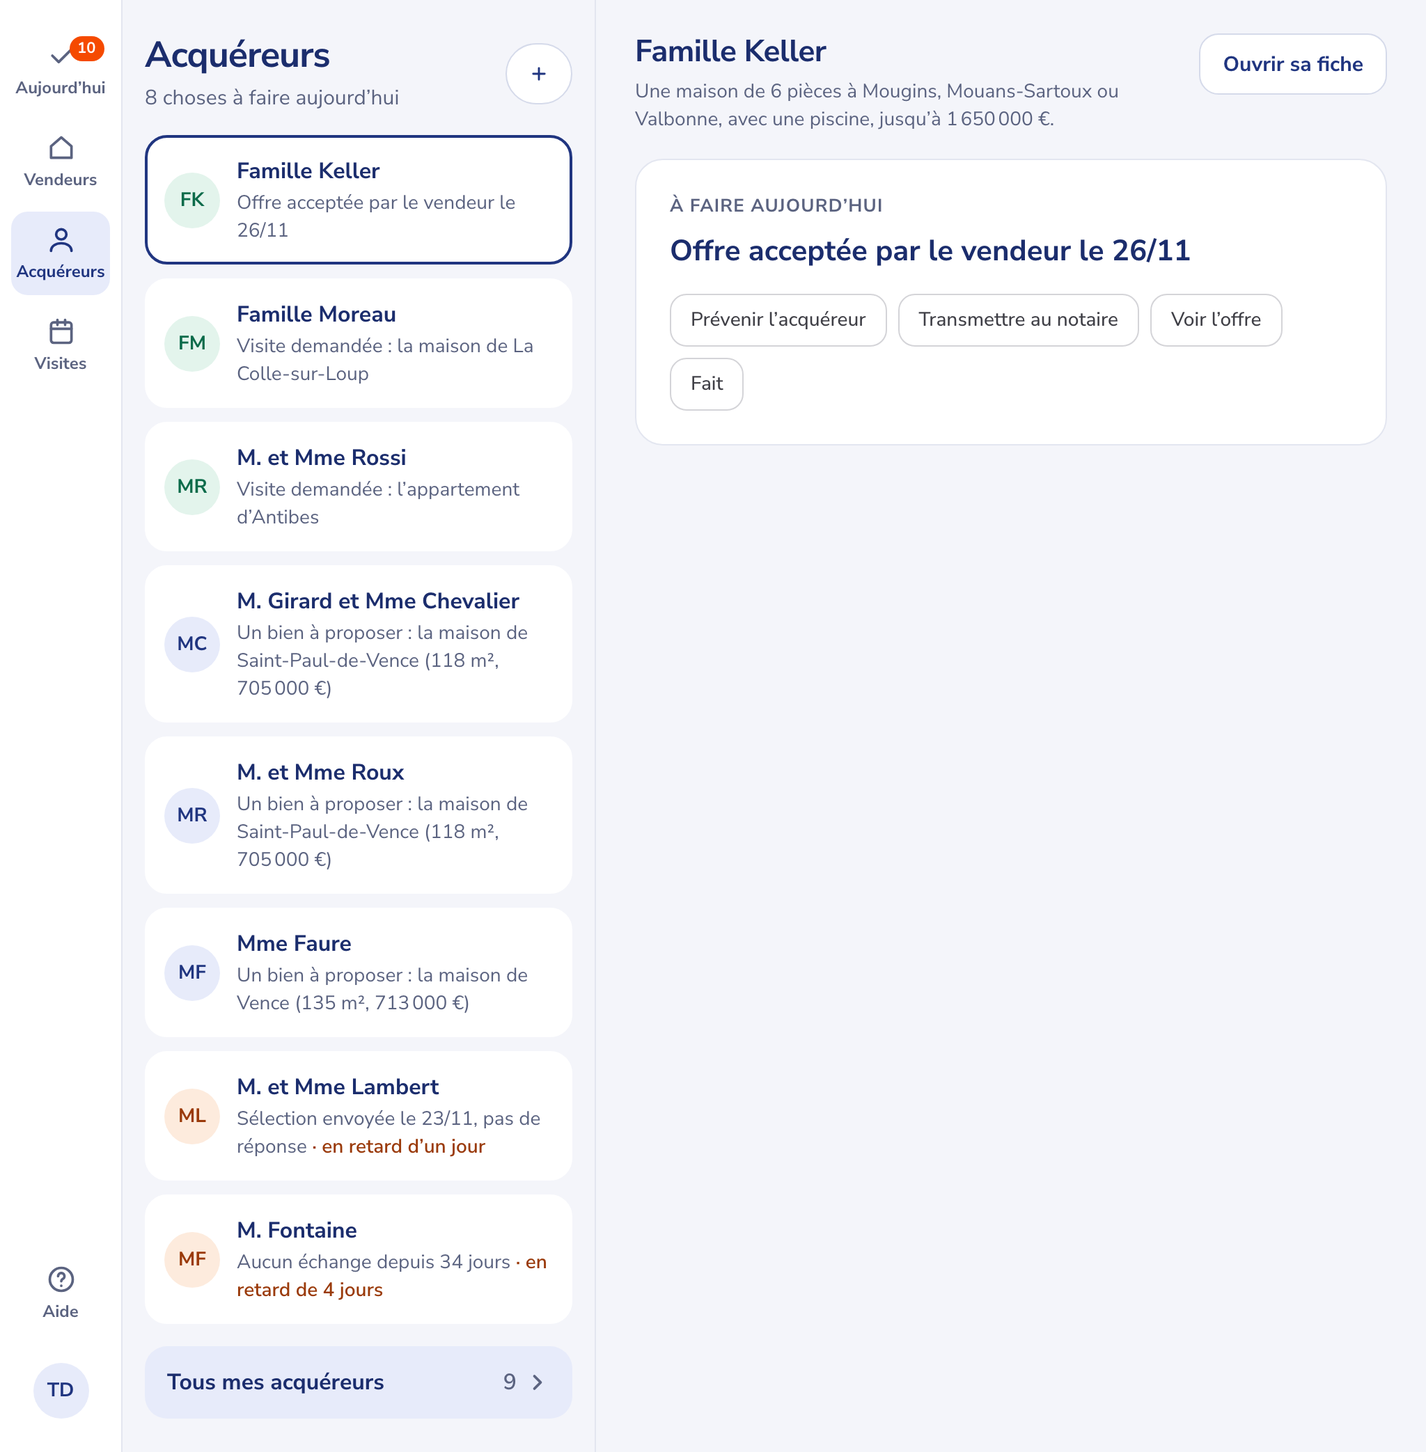
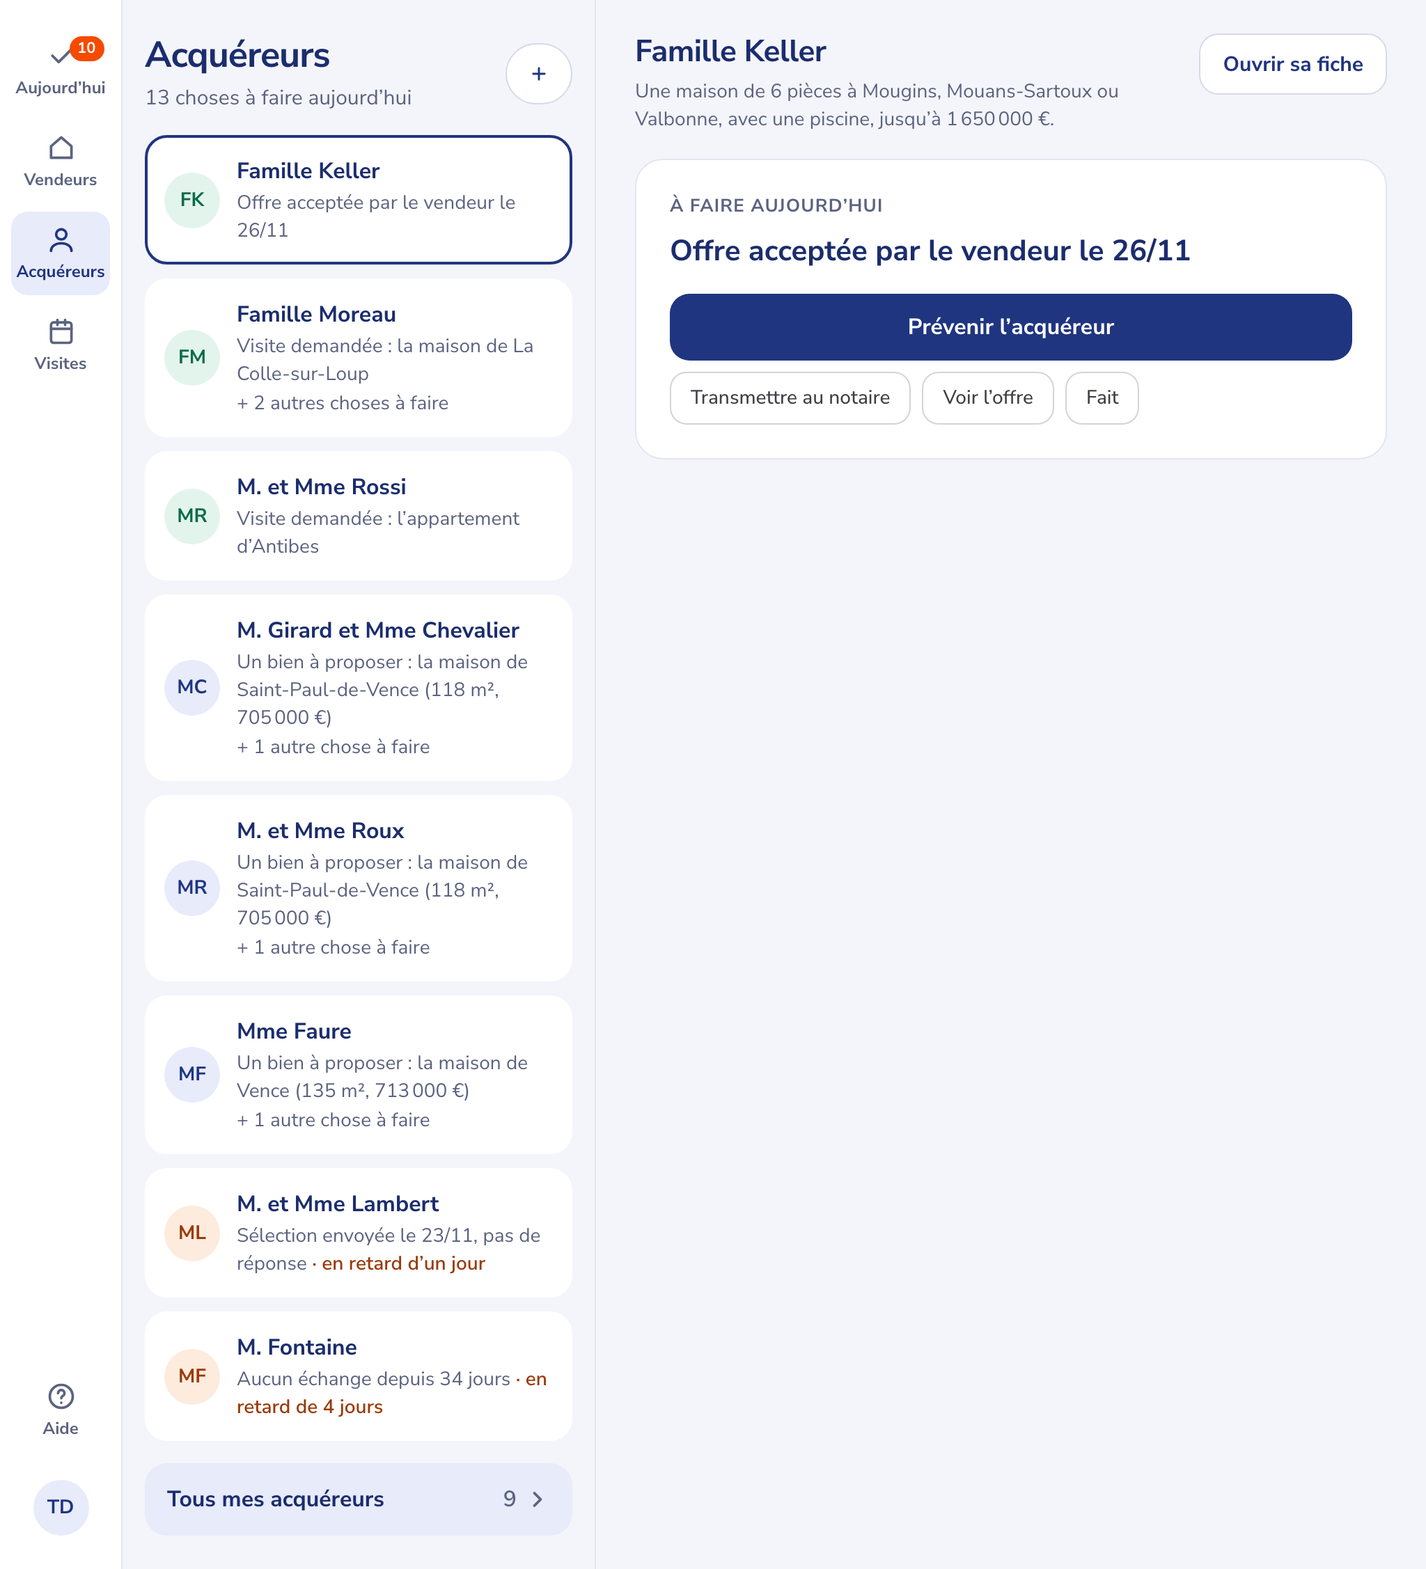
Refonte, lot B — après la relecture : sur une tablette en portrait, « Ouvrir sa fiche » passe sous le nom ; les captures du code relu, ce qui change, ce qui est tranché, les specs, les leçons

diff --git a/src/app/(protected)/acquereurs/(liste)/buyers-today-view.tsx b/src/app/(protected)/acquereurs/(liste)/buyers-today-view.tsx
@@ -250,7 +250,9 @@ function BuyerTodayDetail({
 }) {
   return (
     <>
-      <div className="flex items-start justify-between gap-6">
+      {/* Sous 1024 px (une tablette en portrait), le détail est étroit : « Ouvrir sa fiche » passe
+          sous son nom et sa recherche, qui gardent toute la largeur. */}
+      <div className="flex flex-col gap-3 lg:flex-row lg:items-start lg:justify-between lg:gap-6">
         <div className="flex min-w-0 flex-col gap-1">
           <h2
             className="text-[22px] leading-tight font-extrabold tracking-[-0.3px] text-brand-darker xl:text-[26px] xl:tracking-[-0.4px] stage:text-white"
@@ -264,7 +266,7 @@ function BuyerTodayDetail({
         </div>
         <Link
           href={`/acquereurs/${item.buyerId}`}
-          className={`${socleBtnQuiet} flex-none`}
+          className={`${socleBtnQuiet} flex-none self-start`}
           data-testid="buyers-today-open"
         >
           Ouvrir sa fiche

diff --git a/tests/e2e/acquereurs-a-faire.spec.ts b/tests/e2e/acquereurs-a-faire.spec.ts
@@ -211,6 +211,12 @@ test('Acquéreurs : à faire aujourd’hui, une carte par personne, aux trois ta
       expect(detail.x, size).toBeGreaterThanOrEqual(list.x + list.width);
       expect(await filledShown(page), size).toEqual(['Prévenir l’acquéreur']);
       await expectNoHorizontalScroll(page, `Acquéreurs, à faire aujourd’hui (${size})`);
+      // En portrait, le détail est étroit : « Ouvrir sa fiche » passe sous le nom et la recherche,
+      // qui gardent la largeur ; en paysage, il reste à leur droite.
+      const name = (await page.getByTestId('buyers-today-name').boundingBox())!;
+      const open = (await page.getByTestId('buyers-today-open').boundingBox())!;
+      if (viewport.width < 1024) expect(open.y, size).toBeGreaterThan(name.y + name.height);
+      else expect(open.x, size).toBeGreaterThan(name.x + name.width);
     }
   });
 

diff --git a/missions/LANCEMENT.md b/missions/LANCEMENT.md
@@ -135,7 +135,7 @@ Les lots, un à la fois (durée prévue par le chef le 25/11, hors attente de Je
 | Lot | Contenu                                                                                           | Maquettes       | Durée prévue | État    |
 | --- | ------------------------------------------------------------------------------------------------- | --------------- | ------------ | ------- |
 | A   | Le socle : le menu aux trois tailles, la carte « à faire », les boutons plein et contour, les pastilles, les tuiles de chiffres | toutes          | 4 h          | sur l'essai depuis le 26/11 à 0 h 10, complété à 0 h 30 (3 h 05) : attend le « oui » |
-| B   | Acquéreurs : « à faire aujourd'hui » ; la fiche acquéreur repliée alignée sur le socle             | REFONTE-1, 4, 5, 6 | 2 h 30    | sur l'essai depuis le 26/11 à 1 h 20 (1 h 40) : attend le « oui » |
+| B   | Acquéreurs : « à faire aujourd'hui » ; la fiche acquéreur repliée alignée sur le socle             | REFONTE-1, 4, 5, 6 | 2 h 30    | sur l'essai depuis le 26/11 à 1 h 20, relu et corrigé à 2 h 55 (3 h 15) : attend le « oui » |
 | C   | Un bien à la fois                                                                                  | REFONTE-3, 5, 6 | 2 h 30       | à faire |
 | D   | Nouvel acquéreur par une phrase                                                                    | REFONTE-2       | 2 h          | à faire |
 | E   | Vendeurs : « à faire aujourd'hui », et le dossier avec sa prochaine étape et ses cinq étapes       | REFONTE-7, 8    | 3 h          | à faire |
@@ -275,30 +275,48 @@ sur ordinateur et tablette, toucher une autre personne dans la liste), puis « O
 fiche alignée sur le socle) et « Tous mes acquéreurs » (la liste d'avant). Les captures :
 `missions/maquettes/REFONTE-B-telephone.png`, `-tablette.png`, `-ordinateur.png` (l'essai tel
 qu'il est), les mêmes en `…-charte-start-academy.png` (la simulation aux couleurs de l'agence de
-Jean-Guy), et `REFONTE-B-fiche-telephone.png`, `-fiche-ordinateur.png`.
+Jean-Guy), `REFONTE-B-plusieurs-taches-ordinateur.png` (une personne qui a trois choses à faire),
+et `REFONTE-B-fiche-telephone.png`, `-fiche-ordinateur.png`. Les captures sont celles du code
+relu, sur une démo remise à zéro.
 
 Ce qui change, en comportement :
 
 - **Acquéreurs s'ouvre sur « à faire aujourd'hui »** : une carte par personne, avec ce qu'il y a
-  à faire et son bouton ; « N choses à faire aujourd'hui », une par personne. Ce sont les tâches
-  de la page « Aujourd'hui » (« Mes tâches » : mêmes règles, mêmes gestes), rangées par
-  acquéreur : la plus utile de chacun fait sa carte, ses autres tâches du jour se lisent dans son
-  détail. Aucune règle nouvelle. La page « Aujourd'hui » ne change pas.
+  à faire et son bouton. Ce sont les tâches de la page « Aujourd'hui » (« Mes tâches » : mêmes
+  règles, mêmes gestes), rangées par acquéreur. Aucune règle nouvelle. La page « Aujourd'hui » ne
+  change pas.
+- **Une personne qui a plusieurs choses à faire les a toutes** : la plus utile fait sa carte ; les
+  autres suivent sous « Aussi aujourd'hui », chacune avec son geste, en contour — dans sa carte
+  sur téléphone, dans son détail sur tablette et ordinateur ; dans la liste, sa ligne dit « + 2
+  autres choses à faire » (et « dont 1 en retard »). « 13 choses à faire aujourd'hui » compte
+  toutes les tâches, pas les personnes.
 - **Sur téléphone**, une colonne de cartes, le bouton sous chaque personne ; le nom mène à sa
   fiche. **Sur tablette et ordinateur**, la liste à gauche (340 et 420 px) et, à droite, la
   personne choisie : son nom, sa recherche en une phrase, ce qu'il y a à faire et son geste,
   « Ouvrir sa fiche » — sans changer de page.
-- **Un seul bouton plein** : celui de la première carte (sur téléphone), celui du détail
-  (ailleurs). La réponse du vendeur à une offre garde ses quatre gestes en contour, comme sur
-  « Aujourd'hui » : le plein va alors à la carte suivante.
+- **Un seul bouton plein**, geste ouvert compris : celui de la première carte (sur téléphone),
+  celui de la personne choisie (ailleurs). Pour la réponse du vendeur à une offre, « Prévenir
+  l'acquéreur » est le bouton de la carte, ses trois autres gestes dessous. Dans une carte qui ne
+  mène pas l'écran, le bouton qui conclut un geste ouvert (« J'ai relancé », « Envoyé ») reste en
+  contour.
+- **Choisir une personne** (tablette, ordinateur) refait son détail à neuf : un geste ouvert pour
+  l'une ne suit jamais la suivante. Le toucher se voit tout de suite (le contour de la ligne), le
+  temps que la page réponde. Un geste ouvert (le message d'une relance) prend la largeur de la
+  carte. Sur une tablette en portrait, « Ouvrir sa fiche » passe sous le nom.
 - **La liste entière** des fiches (ses vues, ses filtres, sa recherche, « Ce mois-ci ») est
   derrière « Tous mes acquéreurs · N » ; elle porte « ← À faire aujourd'hui ». Un lien d'avant
-  (`?vue=agence`, `?q=`, `?etat=`, une fiche archivée) y mène toujours.
+  (`?vue=agence`, `?q=`, `?etat=`, une fiche archivée) y mène toujours, et la liste garde son
+  adresse : un filtre retiré ou une recherche vidée, puis la page actualisée, c'est toujours la
+  liste. La tuile « N acquéreurs prêts » d'« Aujourd'hui » y mène, comme avant.
 - **La fiche** : « Prochaine étape » devient la carte du socle (blanche, son grand bouton plein,
   le second geste en lien) ; « Son suivi » montre ses trois chiffres en tuiles — visités, envoyés
-  en attente, refusés —, qui s'ouvrent d'un toucher comme les lignes d'avant ; « Visites à
-  organiser », quand il y en a, garde sa ligne entière, dessous. Rien d'autre ne bouge sur la
-  fiche.
+  en attente, refusés —, qui s'ouvrent d'un toucher comme les lignes d'avant : la tuile ouverte
+  prend la largeur, les deux autres restent côte à côte au-dessus ; « Visites à organiser »,
+  quand il y en a, a sa ligne entière sous les trois, dans la page comme à l'écran. Rien d'autre
+  ne bouge sur la fiche.
+- **Le message préparé** d'une relance ou d'une offre passe à la ligne : son lien, trop long,
+  faisait défiler la page de côté sur téléphone (trouvé par la spec, geste ouvert). Cela vaut
+  aussi sur « Aujourd'hui », où le même message s'affiche.
 
 Tranché seul par le chef, à corriger par Jean-Guy s'il le veut :
 
@@ -314,6 +332,18 @@ Tranché seul par le chef, à corriger par Jean-Guy s'il le veut :
   et 6) y vient au lot C.
 - Sur la fiche, le lien de retour garde « ← Acquéreurs », comme toutes les pages ; les titres
   de la fiche ne sont pas refaits.
+- **À trancher par Jean-Guy — les cartes suivent « Mes tâches »**, la règle d'« Aujourd'hui »
+  (M145 B) : une visite demandée sur un mandat, ou un bien à proposer, est la tâche du conseiller
+  du MANDAT. Dans une agence à plusieurs conseillers, celui qui tient le mandat voit donc une
+  carte au nom de l'acquéreur d'un collègue, et le collègue n'a pas de carte pour son propre
+  acquéreur. Par défaut, rien ne change : c'est la règle d'aujourd'hui, et la changer serait une
+  règle nouvelle. L'autre choix : sur Acquéreurs, montrer les tâches de MES acquéreurs, quel que
+  soit le mandat.
+- « Visites à organiser » vient sous les trois chiffres ; dans la fiche repliée d'avant, elle
+  était la deuxième ligne (Lancement 6). L'ordre de la page suit celui de l'écran.
+- Choisir une personne relit ses tâches au serveur : 1,3 s mesurée sur l'essai, dont la base est
+  la plus petite. Le contour de la ligne répond tout de suite ; aller plus vite se décide avec le
+  lot C, qui met « un bien à la fois » dans ce détail (`missions/PLUS_TARD.md`).
 
 Les specs modifiées (un emplacement ; ce qu'elles prouvent ne change pas) :
 
@@ -323,15 +353,36 @@ Les specs modifiées (un emplacement ; ce qu'elles prouvent ne change pas) :
 | `parcours.spec.ts` (1)              | idem                                                                                            |
 | `presentation-directe.spec.ts` (11) | idem                                                                                            |
 | `langue-de-l-acquereur.spec.ts` (1) | idem                                                                                            |
-| `acquereurs-a-faire.spec.ts`        | **nouvelle** : « à faire aujourd'hui » aux trois tailles, la personne choisie sans changer de page, le seul bouton plein, la fiche et ses trois tuiles, « Tous mes acquéreurs » et son retour |
+| `acquereurs-a-faire.spec.ts`        | **nouvelle** : « à faire aujourd'hui » aux trois tailles et sur la tablette en portrait, la personne choisie sans changer de page et son détail neuf, le seul bouton plein (deux gestes ouverts compris), les autres tâches d'une personne, la fiche et ses trois tuiles, « Tous mes acquéreurs », son adresse gardée et son retour |
 
-Tests : barrières vertes (4 415 tests) ; les specs concernées sur l'essai, le 26/11 de 0 h 45 à
-1 h 18 : 24 parcours sur 24, sans aléa.
+Non modifiée, mais elle passe désormais par le nouvel écran : `parcours.spec.ts` — le lien
+« Acquéreurs » du menu et l'ancienne adresse `/biens-ideaux` arrivent sur « à faire aujourd'hui »
+(elle attend toujours `/acquereurs`), et « Nouvel acquéreur » y est le « + » de l'en-tête, trouvé
+par son nom. Ce qu'elle prouve ne change pas.
+
+Le relecteur, une passe : un bloquant, levé — sur tablette et ordinateur, le geste ouvert pour une
+personne (son message préparé, « J'ai relancé ») restait affiché sous le nom de la suivante — ;
+ses cinq « à corriger » faits (deux boutons pleins sur téléphone, la tuile d'« Aujourd'hui », la
+liste qui perdait son adresse, les preuves que les tâches portent leurs acquéreurs, une tâche due
+cachée derrière la première) ; ses remarques prises ou notées dans `missions/PLUS_TARD.md`.
+
+Tests : barrières vertes (4 439 tests). Sur l'essai, le 26/11 : d'abord 24 parcours sur 24 (0 h 45
+à 1 h 18) ; puis, après la relecture (2 h 05 à 2 h 55), la spec du lot et les six autres
+concernées, 14 parcours sur 14 (`acquereurs-a-faire`, `suivi-de-l-acquereur`, `fiche-complete`,
+`hors-mandat`, `presentation-directe`, `demo`, `parcours`). La spec du lot a trouvé un défaut
+d'écran (le lien du message qui faisait défiler le téléphone de côté), corrigé, et une attente
+fausse de la spec elle-même (écrite sur une démo déjà utilisée). Hors du lot : « Le Live sans
+trou », rouge deux fois de suite sur la 4G rapide (même étape : après « Valider », l'écran suivant
+n'arrivait pas en 60 s), vert au troisième passage sur les deux réseaux ; les lots A et B ne
+touchent pas le Live (aucun fichier), le journal d'erreurs de l'essai est vide.
 
 À écrire dans `docs/DECISIONS.md` à la mise en production du lot : « à faire aujourd'hui » en tête
 d'Acquéreurs, une carte par personne ; la liste derrière « Tous mes acquéreurs » (précise M117,
 M146 B) ; le détail à droite sur tablette et ordinateur ; la carte « Prochaine étape » et les
-trois tuiles de la fiche (précise la Mission 10 bis et le Lancement 10, « bloc plein »).
+trois tuiles de la fiche (précise la Mission 10 bis et le Lancement 10, « bloc plein ») ; une
+personne a toutes ses tâches du jour, la première en carte, les autres sous « Aussi aujourd'hui » ;
+un seul bouton plein, geste ouvert compris ; « Visites à organiser » sous les trois chiffres
+(remplace l'ordre du Lancement 6) ; le message préparé passe à la ligne.
 
 ## Chaque soir
 

diff --git a/docs/APPRENTISSAGES.md b/docs/APPRENTISSAGES.md
@@ -867,6 +867,40 @@ visibilityProperty: true })`, jamais la seule boîte englobante.
 - 26/11 · Refonte, lot A · Un test qui lit le texte d'un fichier source casse au premier
   remaniement (`welcome.test.ts` cherchait `{ href: '/bienvenue', label: 'Aide'` dans le
   service) : prouver le comportement (`NAV_ITEMS`, `accountMenuFor`), pas l'écriture.
+- 26/11 · Refonte, lot B · Quand seule l'adresse change (`?personne=`), React garde l'état des
+  composants qui restent à la même place : le geste ouvert pour une personne (le message préparé,
+  « J'ai relancé ») restait sous le nom de la suivante. Une liste et son détail sur la même page :
+  une `key` par personne sur le détail, et jamais le rang pour clé d'une tâche. La preuve e2e :
+  marquer le nœud du détail (`data-probe`), choisir quelqu'un d'autre, le repère doit avoir
+  disparu — sans la clé, React réemploie le nœud et le repère reste.
+- 26/11 · Refonte, lot B · Une attente écrite en regardant une démo déjà utilisée ment : la veille
+  au soir la famille Moreau avait deux choses à faire, trois sur la démo remise à zéro que joue la
+  spec. Lire l'écran APRÈS une remise à zéro avant d'écrire l'attente, et compter sur l'écran
+  (« autant de lignes que le nombre annoncé ») plutôt que figer un nombre.
+- 26/11 · Refonte, lot B · `expectNoHorizontalScroll` se joue aussi geste OUVERT : c'est le
+  message préparé d'une relance (un lien de 70 caractères dans un paragraphe
+  `whitespace-pre-line`) qui faisait défiler le téléphone de 219 px, pas la page au repos.
+  `break-words` sur tout paragraphe qui peut porter un lien.
+- 26/11 · Refonte, lot B · Un seul bouton plein, c'est aussi les gestes ouverts : un panneau
+  ouvert dans une carte qui ne mène pas l'écran apportait son propre bouton plein (« J'ai
+  relancé »). Le style du bouton qui conclut se décide comme celui qui ouvre
+  (`taskConfirmClass`), et la spec compte les pleins panneaux ouverts.
+- 26/11 · Refonte, lot B · Une mise en page qui dépend d'un état tenu par un composant enfant (un
+  geste ouvert qui doit prendre la largeur) : l'enfant pose un repère (`data-task-open`), le
+  parent le lit en CSS (`has-[[data-task-open]]:`), sans état partagé.
+- 26/11 · Refonte, lot B · Sans `loading.tsx` (refusé, M128), un lien qui relit la page au serveur
+  ne dit rien pendant une seconde : `useLinkStatus` (Next 16), dans un petit composant client
+  posé DANS le lien, rend tout de suite le contour de la ligne choisie.
+- 26/11 · Refonte, lot B · Les captures d'un lot se prennent sur une démo remise à zéro (les specs
+  qui viennent de tourner y laissent des messages préparés, des relances notées) : un script hors
+  du dépôt rejoue « Remettre ma démo à zéro » par l'écran, et refuse toute autre adresse que
+  l'essai. Regarder aussi la tablette en portrait (768 px) : le détail y est deux fois plus
+  étroit qu'en paysage, et c'est une vraie taille d'iPad.
+- 26/11 · Refonte, lot B · « Le Live sans trou » sur la 4G rapide : rouge deux fois de suite à la
+  même étape (après « Valider », l'écran suivant n'arrivait pas en 60 s), juste après des
+  déploiements de l'essai, puis vert au troisième passage sur les deux réseaux ; aucun fichier du
+  Live touché, journal d'erreurs vide. Le dire tel quel : deux rouges, un vert, la cause non
+  établie.
 
 ## La base
 

diff --git a/missions/PLUS_TARD.md b/missions/PLUS_TARD.md
@@ -308,13 +308,32 @@ balayage se note ici, il ne se corrige pas. Les idées de produit restent dans `
 - 26/11 · Refonte, lot B · Vus en route, sans les corriger :
   - deux fiches peuvent porter les mêmes initiales (« M. et Mme Rossi » et « M. et Mme Roux » :
     MR) : le rond ne distingue pas, le nom oui ;
-  - une carte ne montre qu'une tâche par personne, la plus utile ; les autres se lisent dans son
-    détail (tablette, ordinateur) ou sur « Aujourd'hui » (téléphone) ;
-  - « N choses à faire aujourd'hui » compte les personnes ; la pastille d'« Aujourd'hui » compte
-    ses lignes : les deux nombres diffèrent, c'est voulu ;
+  - « N choses à faire aujourd'hui » compte toutes les tâches des acquéreurs ; la pastille
+    d'« Aujourd'hui » compte ses lignes, vendeurs compris : les deux nombres diffèrent ;
   - sur la fiche, le lien de retour reste « ← Acquéreurs » (la maquette 4 dessine un chevron),
     et la carte du haut garde ses titres d'avant : seule « Prochaine étape » et les trois chiffres
     ont pris le socle ;
   - le bloc « Dernière visite » de la maquette 4 n'existe pas : la tuile « Visités » dit la
     dernière visite, et sa ligne ouverte le compte rendu.
+- 26/11 · Refonte, lot B, après la relecture · Notés, sans les corriger :
+  - sur « Aujourd'hui », les tâches d'une ligne groupée ont leur rang pour clé
+    (`aujourdhui/page.tsx`, la série) : une tâche faite peut léguer son geste ouvert à la suivante
+    de la série — le défaut que la relecture a trouvé sur Acquéreurs, en plus rare. D'avant la
+    refonte ;
+  - choisir une personne (tablette, ordinateur) relit toutes les tâches au serveur : 1,3 s sur
+    l'essai. Deux pistes : rendre d'avance le détail de chacun et changer côté navigateur, ou ne
+    relire que la personne. À décider avec le lot C, qui met « un bien à la fois » dans ce
+    détail ;
+  - deux mandats de même type dans la même commune se disent pareil (« la maison de Vence ») :
+    pour un bien à proposer, la surface et le prix les distinguent ; pour une visite demandée,
+    rien. Aucun cas dans les vrais dossiers pour l'instant ;
+  - les autres messages préparés (le lien du dossier acquéreur, du Point marché, de l'Étude,
+    « Confirmer la visite », « Proposer ce bien ») ont le même paragraphe que la relance, sans
+    passage à la ligne forcé : un lien long peut y faire défiler le téléphone de côté. À mesurer
+    geste ouvert, avec le lot F (Visites) et le lot C (« Proposer ce bien ») ;
+  - la relance demande deux touchers avant le message (« Relancer », puis « Préparer le
+    message ») : d'avant la refonte, le geste d'« Aujourd'hui » ;
+  - dans une carte, les trois autres gestes de la réponse du vendeur à une offre (« Transmettre
+    au notaire », « Voir l'offre », « Fait ») gardent les petits boutons d'avant ;
+  - `OfferMessagePanel` garde un ton sombre que plus personne n'appelle : à retirer au nettoyage.
 
